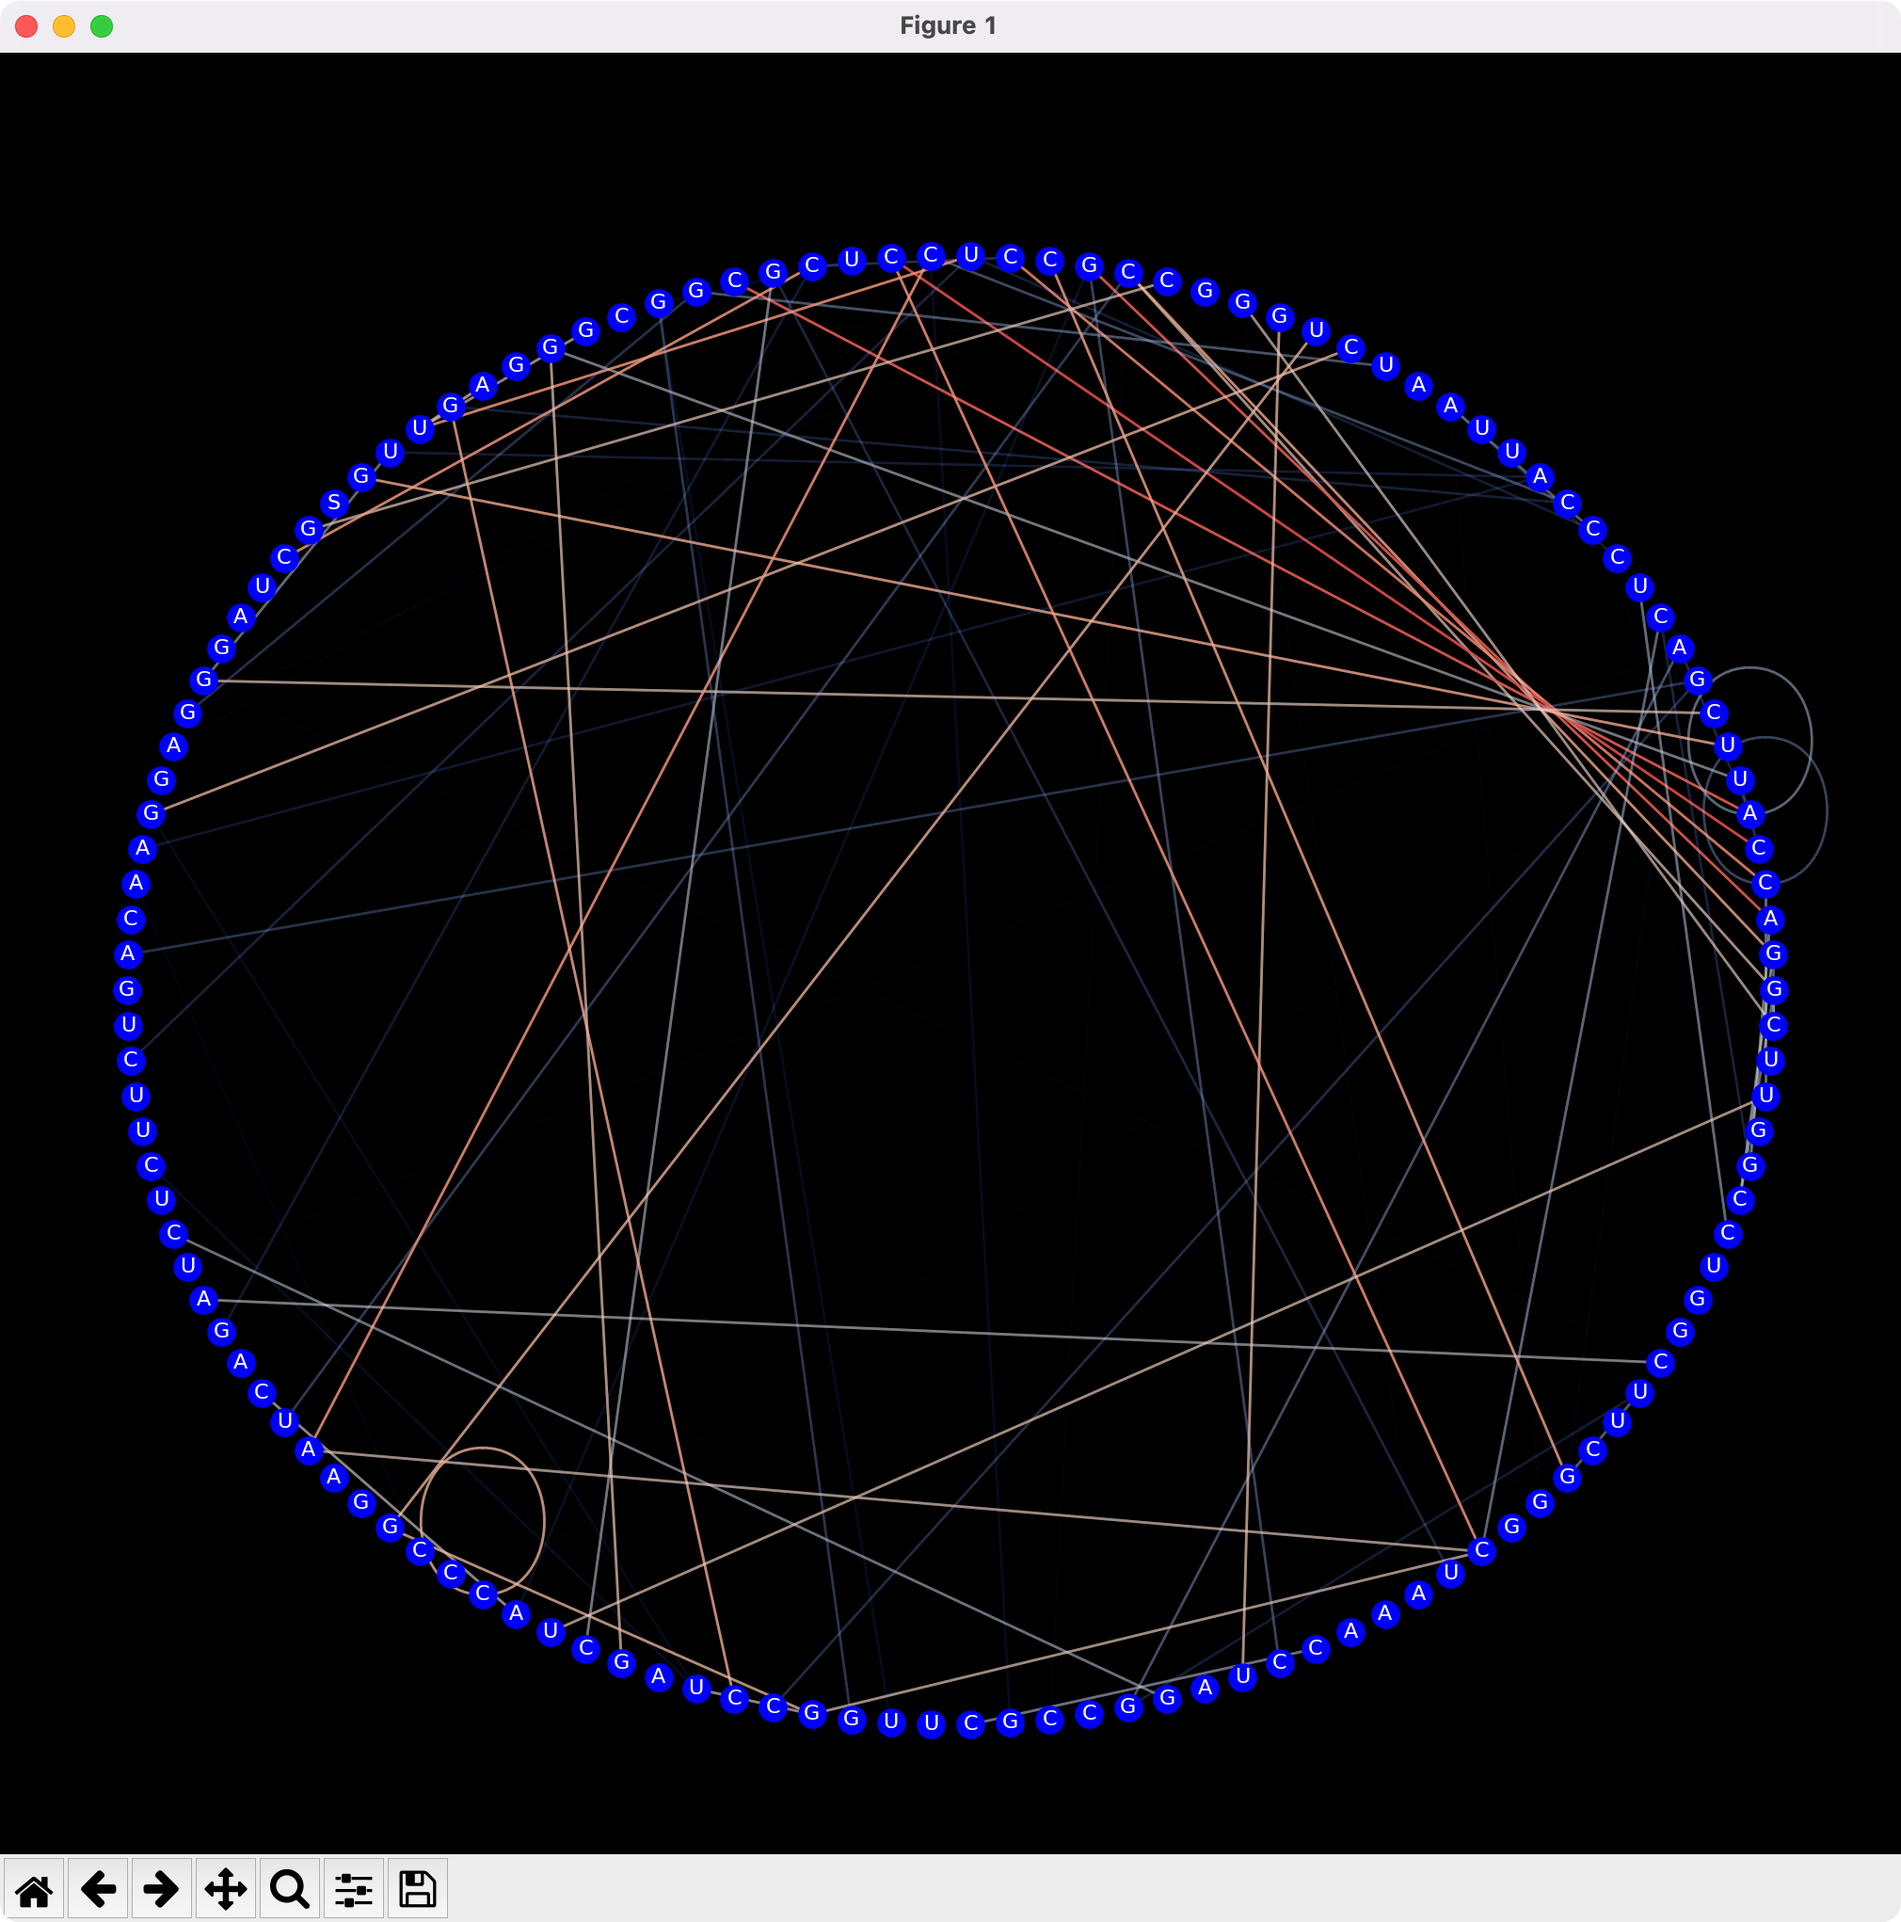
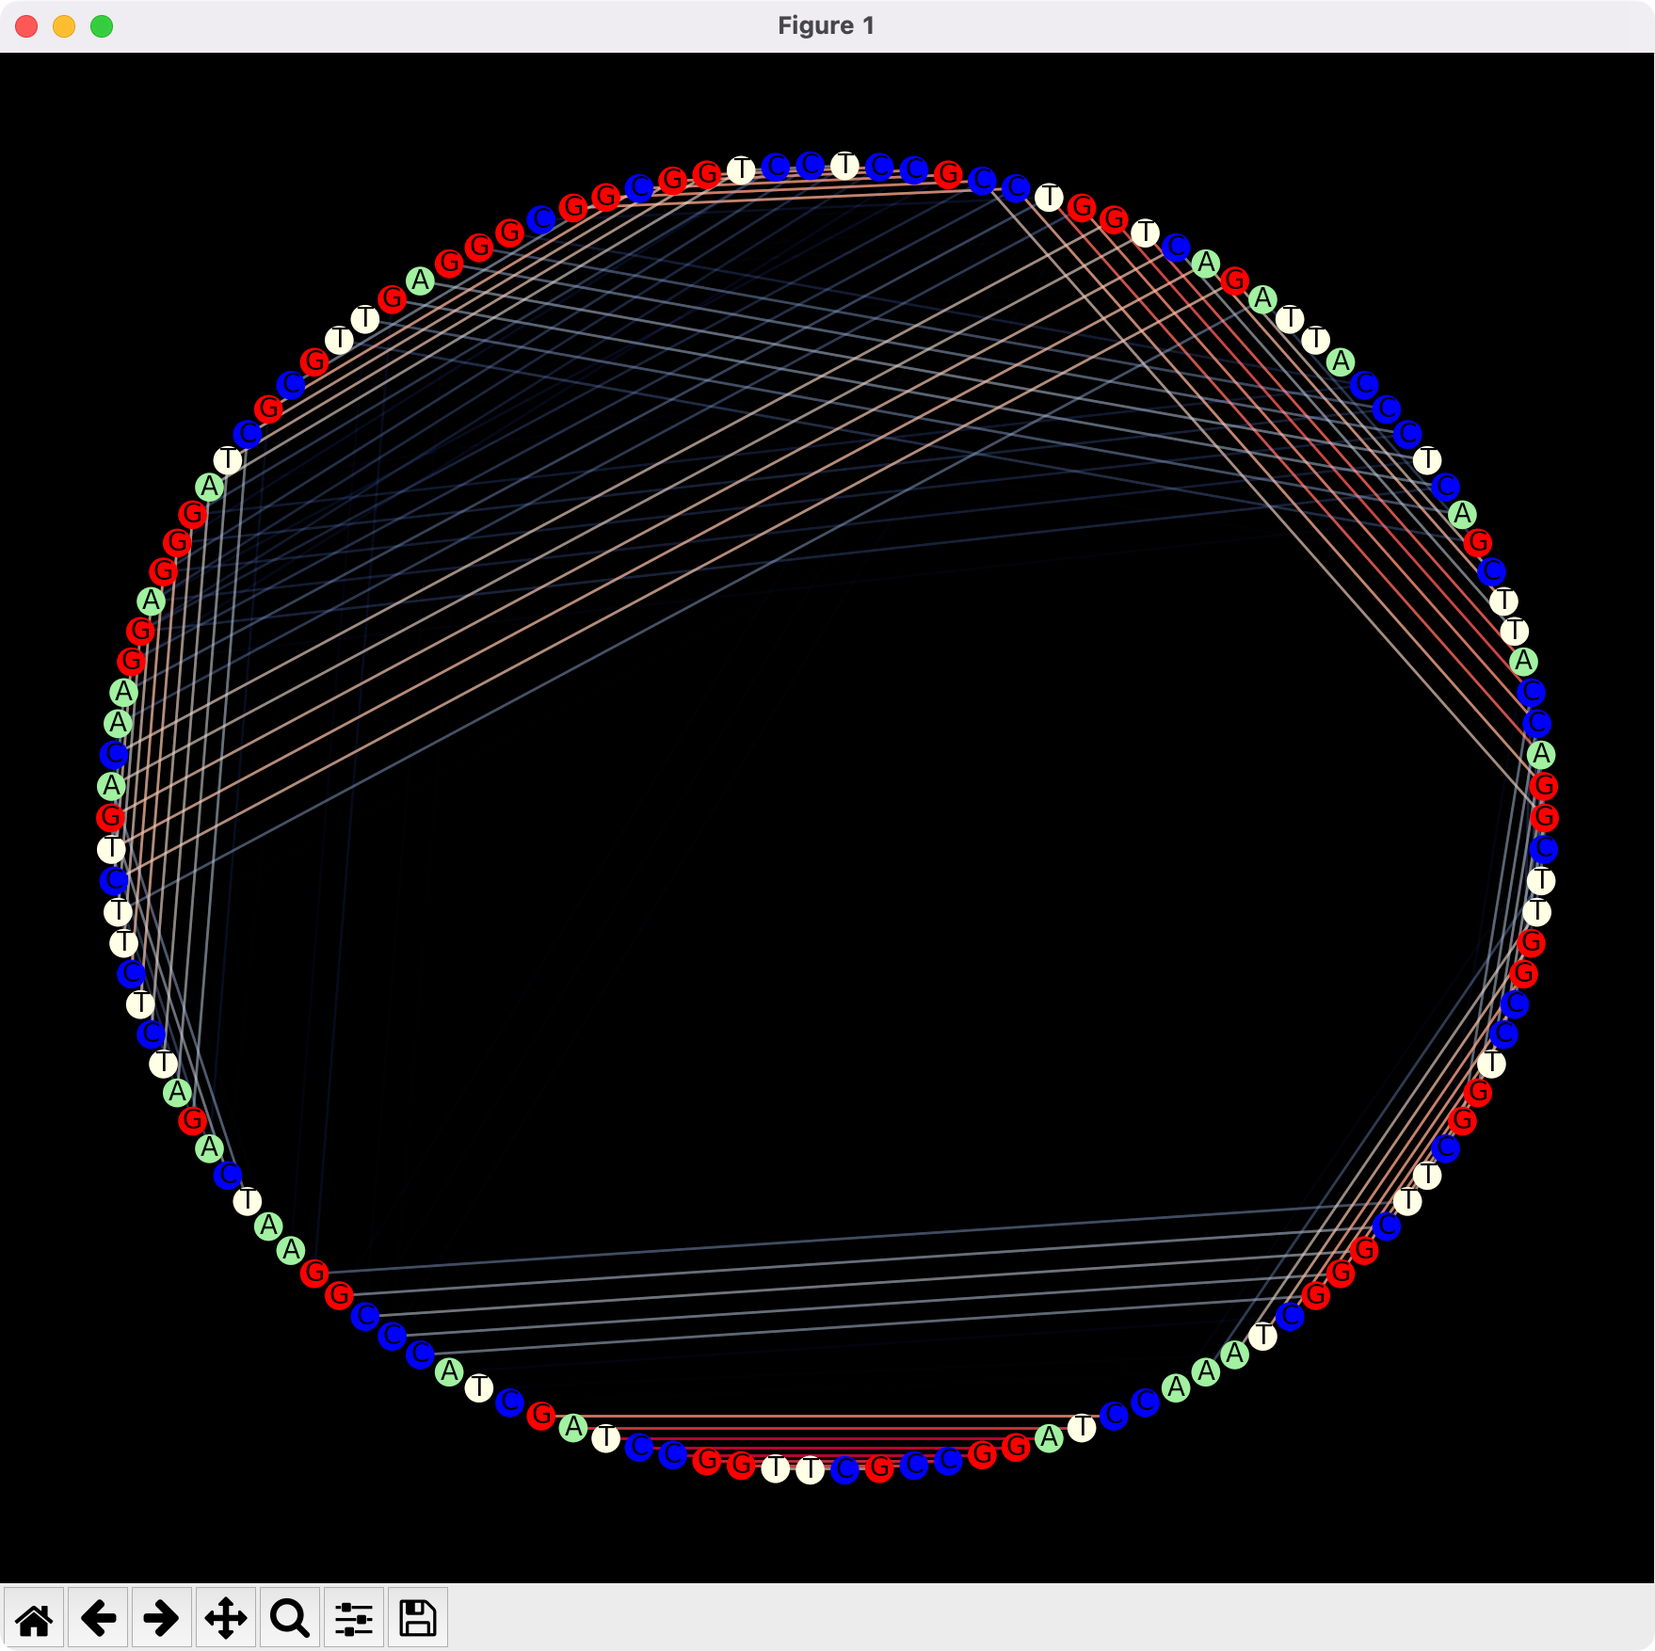
Bug Fix and Added Colors
Fixed array misalignment
Added colors

diff --git a/ML/diagram/donut.py b/ML/diagram/donut.py
@@ -43,9 +43,10 @@ color_stack=[]
 max_prob = 0
 min_prob = 1
 for i in range(prob_data.shape[0]): # row
-    for j in range(prob_data.shape[1]): # col
+    for j in range(i+1,prob_data.shape[1]): # col
         tmp_prob = prob_data[i,j]
-        # print(i,j,tmp_prob); if i == 3: exit()
+        print(i,j,tmp_prob)
+        # if i == 3: exit()
         if tmp_prob > 0:
             if tmp_prob > max_prob: max_prob = tmp_prob
             if tmp_prob < min_prob: min_prob = tmp_prob
@@ -83,12 +84,13 @@ labeldict = {}
 colordict = []
 tmp = list(data[1][0])
 for i in range(len(G.nodes)):
-    labeldict[i] = tmp[i]
-    if tmp[i] == 'G':
+    tmp_i = tmp[i]
+    labeldict[i] = tmp_i
+    if tmp_i == 'G':
         colordict.append('r')
-    elif tmp[i] == 'C':
+    elif tmp_i == 'C':
         colordict.append('b')
-    elif tmp[i] == 'A':
+    elif tmp_i == 'A':
         colordict.append('#90EE90') # light green
     else:
         colordict.append('#FFFFE0') # light yellow
@@ -99,7 +101,7 @@ options = {
     "node_size"  : 100,
     "node_color" : colordict,
 
-    "font_size"   : 8,
+    "font_size"   : 10,
     "with_labels" : True,
     "labels"      : labeldict,
     "font_color"  : "k",
